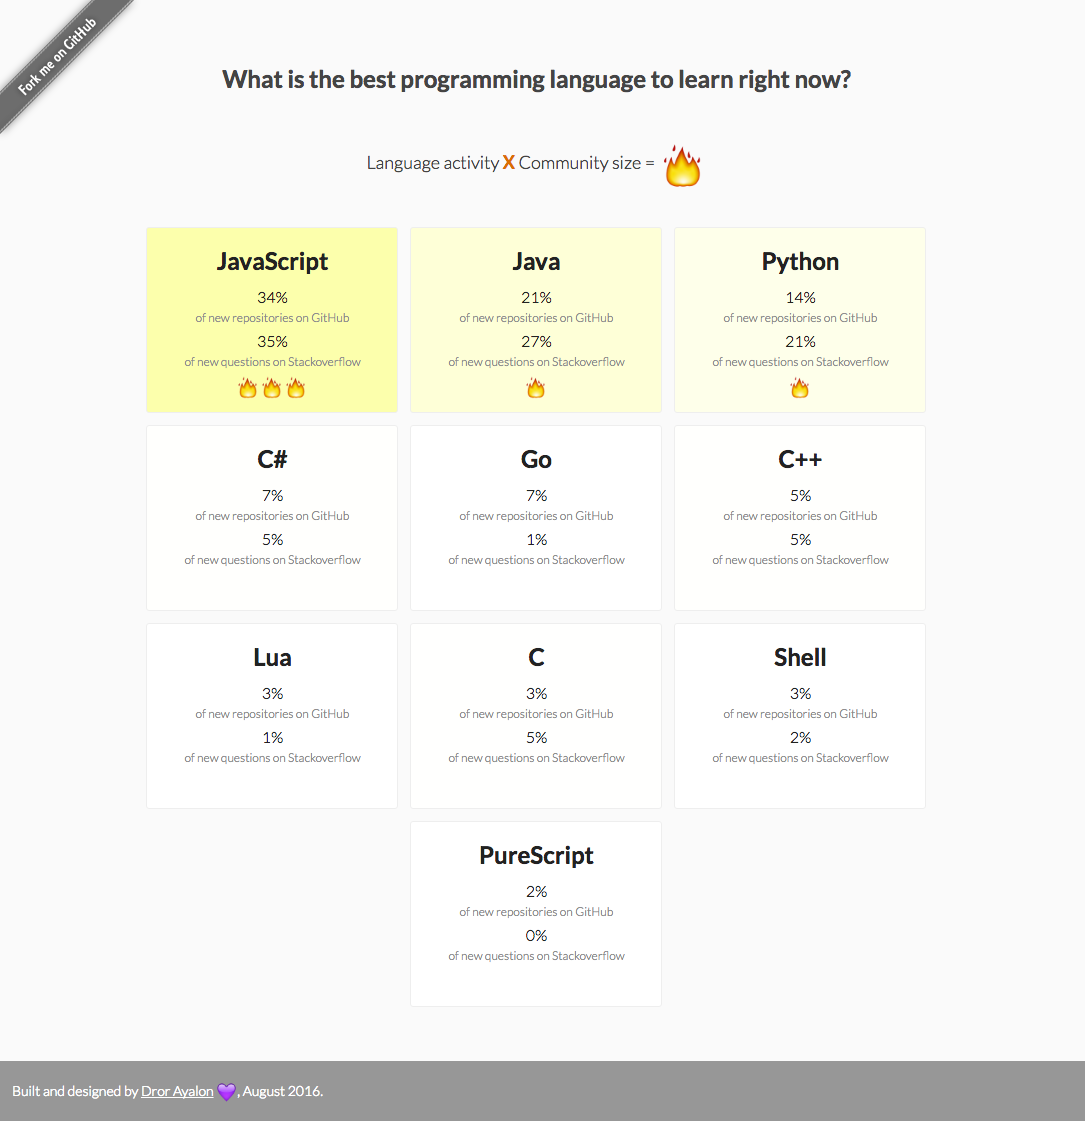
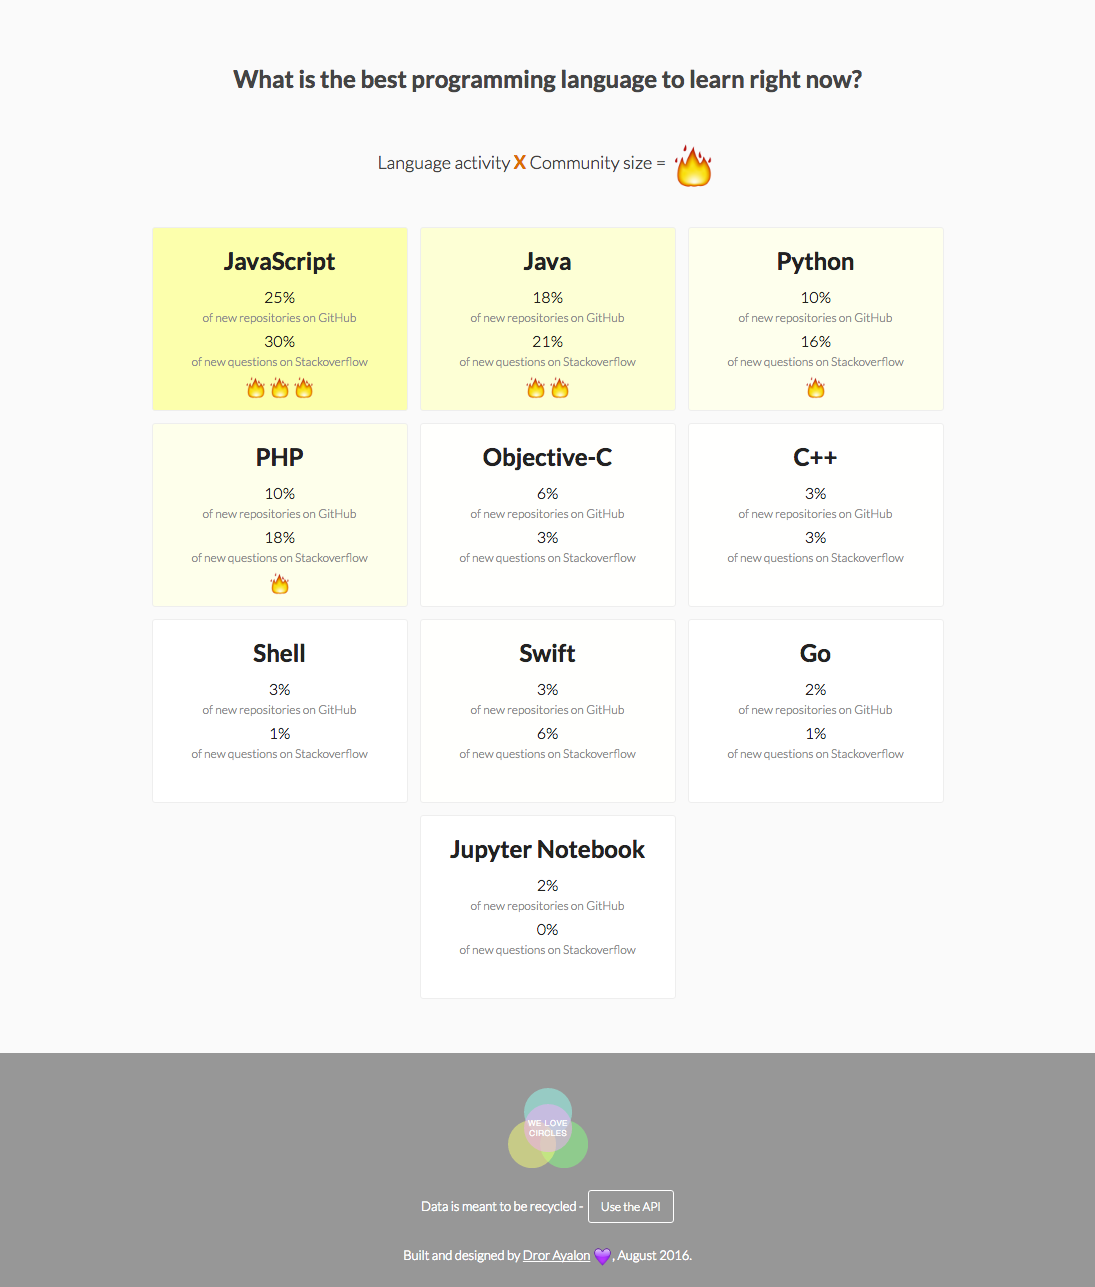
screenshots + readme update

Changed region(s): [[0.0, 0.0312, 1.0, 0.9991], [0.6691, 0.1873, 0.8212, 0.6869], [0.0, 0.0, 0.1217, 0.1249]]

diff --git a/README.md b/README.md
@@ -1,3 +1,7 @@
 ![Alt text](/images/main.png?raw=true "What is the best programming language to learn right now? -- NodeJS Web App -- Main Page")  
 
-![Alt text](/images/inner.png?raw=true "What is the best programming language to learn right now? -- NodeJS Web App -- Language Page")
+![Alt text](/images/inner.png?raw=true "What is the best programming language to learn right now? -- NodeJS Web App -- Language Page")          
+
+![Alt text](/images/circles.png?raw=true "What is the best programming language to learn right now? -- NodeJS Web App -- Circles view using D3")  
+
+![Alt text](/images/api.png?raw=true "What is the best programming language to learn right now? -- NodeJS Web App -- API Page")
